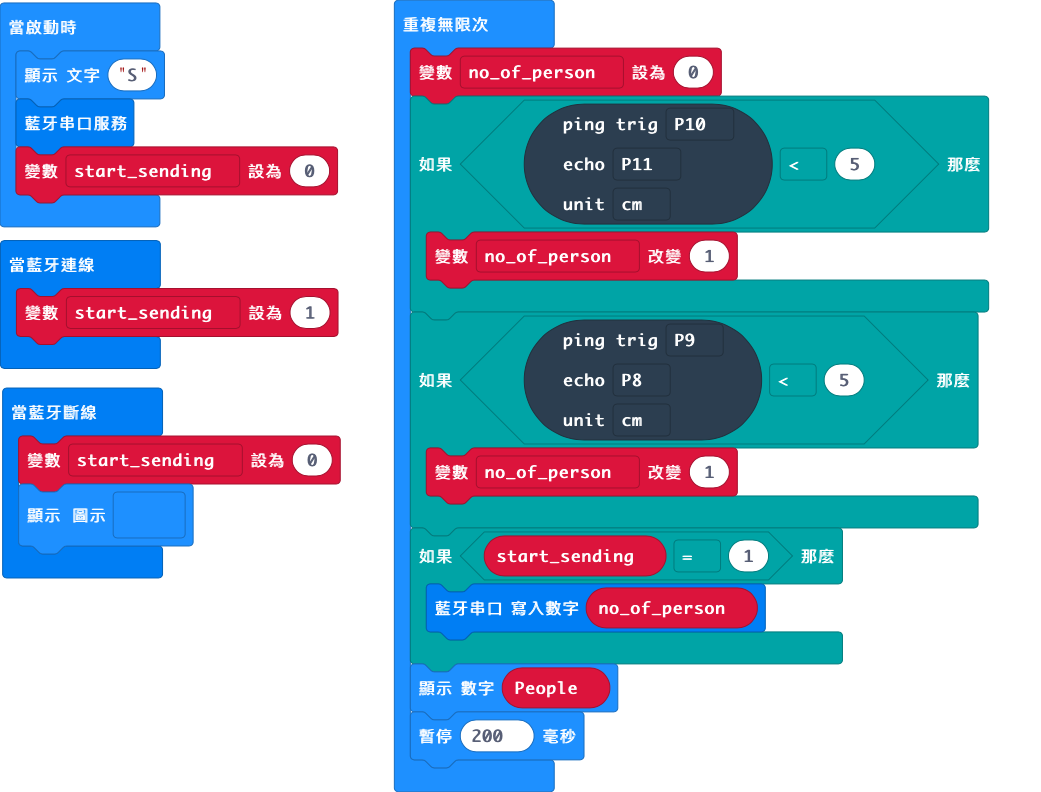
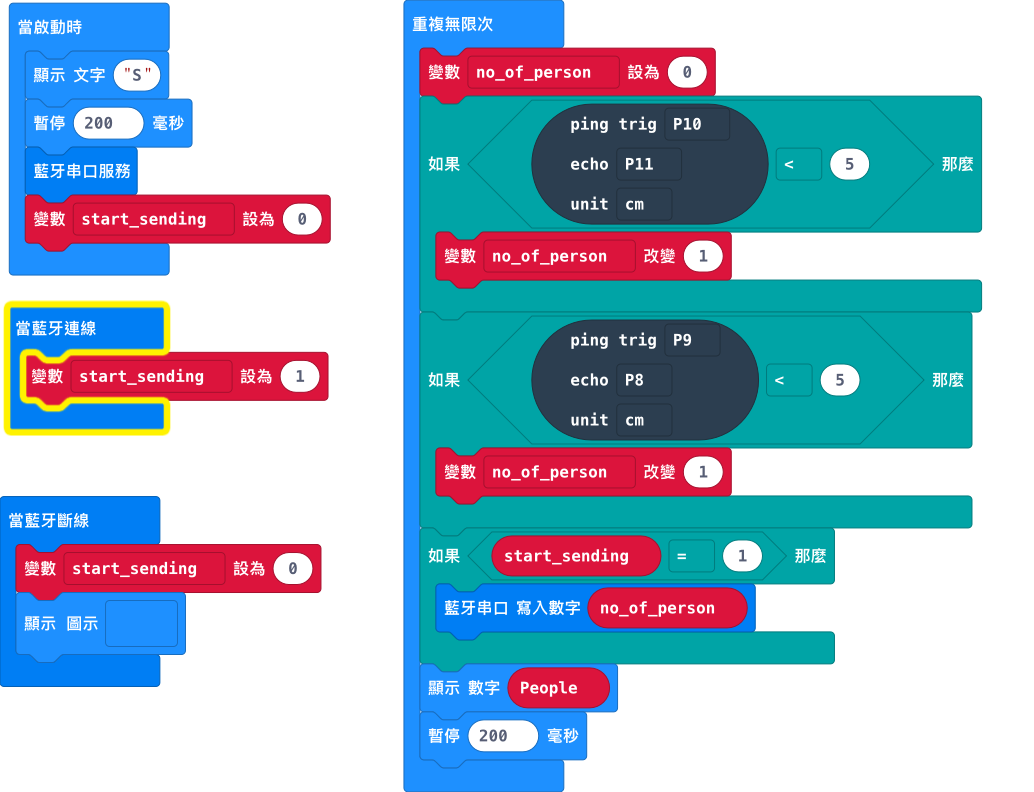
Update main.blocks, main.ts

diff --git a/main.ts b/main.ts
@@ -8,6 +8,7 @@ bluetooth.onBluetoothDisconnected(function () {
 let no_of_person = 0
 let start_sending = 0
 basic.showString("S")
+basic.pause(200)
 bluetooth.startUartService()
 start_sending = 0
 basic.forever(function () {
